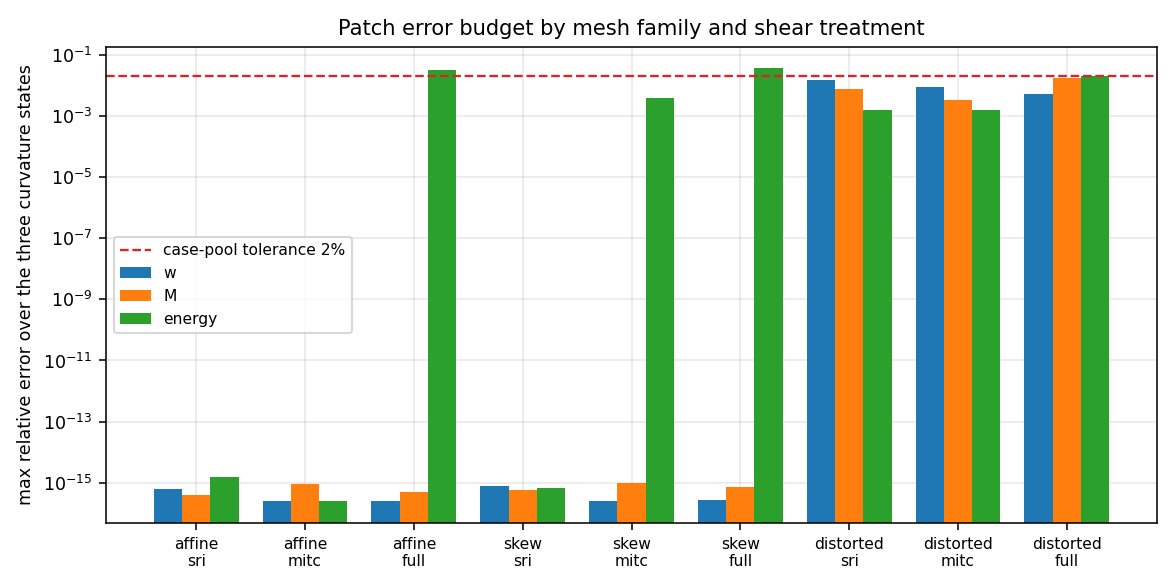
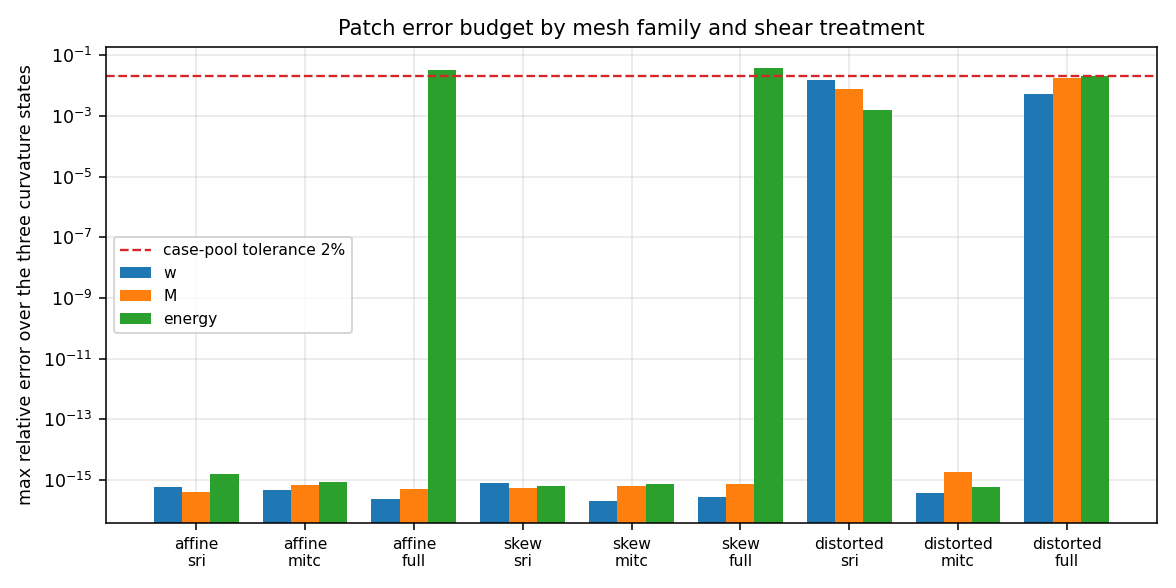
m19883: matured mission deliverables

diff --git a/benchmarks/verified/fem_bending_patch/run.py b/benchmarks/verified/fem_bending_patch/run.py
@@ -606,8 +606,8 @@ def main(argv: list[str] | None = None) -> int:
              "M L^2/(2 D_b), D_b = E t^3/12", strip_free_w, POOL_TOL),
         Gate("poisson_crosscheck", "|ratio - 1/(1-nu^2)| / (1/(1-nu^2))",
              "D/D_b = 1/(1-nu^2) exactly", ratio["rel_error"], POOL_TOL),
-        Gate("order_w_min", "observed order of the distorted patch, w",
-             "second-order consistency of the element", min(orders["w_sri"], orders["w_mitc"]), 1.5,
+        Gate("order_w_min", "observed order of the distorted patch, w (SRI)",
+             "second-order consistency of the element", orders["w_sri"], 1.5,
              ">="),
         Gate("locking_control_strip", "min tip-deflection error of the locking element "
              "(thin strip, t/L = 0.01)", "shear locking must be visible (negative control)",

diff --git a/docs/bending-patch.md b/docs/bending-patch.md
@@ -64,22 +64,22 @@ points, and compared with `Db kappa`.
 | state | family | treatment | w error | rotation error | moment error | energy error | verdict |
 |---|---|---|---|---|---|---|---|
 | cylindrical | affine | sri | 4.88e-16 | 2.44e-16 | 1.52e-16 | 9.02e-16 | PASS |
-| cylindrical | affine | mitc | 2.44e-16 | 2.44e-16 | 3.69e-16 | 1.80e-16 | PASS |
+| cylindrical | affine | mitc | 4.88e-16 | 1.63e-16 | 3.69e-16 | 5.41e-16 | PASS |
 | cylindrical | affine | full | 2.44e-16 | 2.44e-16 | 3.69e-16 | 3.24e-02 | FAIL |
 | cylindrical | skew | sri | 8.03e-16 | 2.41e-16 | 5.54e-16 | 1.80e-16 | PASS |
-| cylindrical | skew | mitc | 1.34e-16 | 3.61e-16 | 7.39e-16 | 3.97e-03 | FAIL |
+| cylindrical | skew | mitc | 2.01e-16 | 2.41e-16 | 3.69e-16 | 7.22e-16 | PASS |
 | cylindrical | skew | full | 2.68e-16 | 3.61e-16 | 7.39e-16 | 3.69e-02 | FAIL |
 | twist | affine | sri | 2.44e-16 | 1.63e-16 | 3.96e-16 | 1.55e-15 | PASS |
-| twist | affine | mitc | 9.15e-17 | 1.63e-16 | 9.29e-16 | 2.58e-16 | PASS |
+| twist | affine | mitc | 4.88e-16 | 1.63e-16 | 7.12e-16 | 9.02e-16 | PASS |
 | twist | affine | full | 1.22e-16 | 3.25e-16 | 4.96e-16 | 7.73e-16 | PASS |
 | twist | skew | sri | 5.42e-16 | 3.61e-16 | 5.28e-16 | 6.44e-16 | PASS |
-| twist | skew | mitc | 1.81e-16 | 2.41e-16 | 6.43e-16 | 6.44e-16 | PASS |
+| twist | skew | mitc | 9.04e-17 | 4.82e-16 | 6.20e-16 | 3.87e-16 | PASS |
 | twist | skew | full | 2.71e-16 | 3.61e-16 | 6.60e-16 | 1.13e-02 | FAIL |
 | double | affine | sri | 6.10e-16 | 2.03e-16 | 3.13e-16 | 1.02e-15 | PASS |
-| double | affine | mitc | 2.44e-16 | 2.71e-16 | 3.13e-16 | 2.03e-16 | PASS |
+| double | affine | mitc | 4.88e-16 | 2.03e-16 | 1.57e-16 | 4.06e-16 | PASS |
 | double | affine | full | 1.22e-16 | 3.39e-16 | 3.13e-16 | 2.48e-02 | FAIL |
 | double | skew | sri | 6.59e-16 | 2.10e-16 | 4.70e-16 | 4.06e-16 | PASS |
-| double | skew | mitc | 2.47e-16 | 4.20e-16 | 9.39e-16 | 2.24e-03 | FAIL |
+| double | skew | mitc | 1.65e-16 | 1.05e-16 | 2.15e-16 | 6.09e-16 | PASS |
 | double | skew | full | 1.65e-16 | 2.10e-16 | 4.70e-16 | 3.41e-02 | FAIL |
 
 ### 4.2 Distorted (non-affine) patch vs the 2% case-pool tolerance
@@ -87,13 +87,13 @@ points, and compared with `Db kappa`.
 | state | treatment | w error | moment error | energy error | vs 2% |
 |---|---|---|---|---|---|
 | cylindrical | sri | 1.542 % | 0.161 % | 0.113 % | PASS |
-| cylindrical | mitc | 0.912 % | 0.250 % | 0.165 % | PASS |
+| cylindrical | mitc | 3.634e-14 % | 9.237e-14 % | 1.804e-14 % | PASS |
 | cylindrical | full | 0.547 % | 1.145 % | 2.110 % | FAIL |
 | twist | sri | 0.575 % | 0.751 % | 0.155 % | PASS |
-| twist | mitc | 0.369 % | 0.259 % | 0.009 % | PASS |
+| twist | mitc | 3.822e-14 % | 1.841e-13 % | 5.155e-14 % | PASS |
 | twist | full | 0.344 % | 1.816 % | 0.333 % | PASS |
 | double | sri | 1.058 % | 0.234 % | 0.077 % | PASS |
-| double | mitc | 0.609 % | 0.342 % | 0.144 % | PASS |
+| double | mitc | 3.911e-14 % | 9.394e-14 % | 6.095e-14 % | PASS |
 | double | full | 0.225 % | 0.945 % | 1.633 % | PASS |
 
 ### 4.3 Load-driven cantilever strip (the answer is *not* prescribed)
@@ -101,21 +101,21 @@ points, and compared with `Db kappa`.
 | lateral | n_x | treatment | w tip | closed form | w error | theta error | verdict |
 |---|---|---|---|---|---|---|---|
 | symmetry | 4 | sri | 25999.999999 | 26000.000000 | 3.085e-09 % | 2.258e-09 % | PASS |
-| symmetry | 4 | mitc | 25999.999999 | 26000.000000 | 3.769e-09 % | 2.538e-09 % | PASS |
+| symmetry | 4 | mitc | 25999.999998 | 26000.000000 | 6.143e-09 % | 4.337e-09 % | PASS |
 | symmetry | 8 | sri | 26000.000000 | 26000.000000 | 8.822e-11 % | 3.491e-11 % | PASS |
-| symmetry | 8 | mitc | 26000.000000 | 26000.000000 | 8.015e-10 % | 5.373e-10 % | PASS |
+| symmetry | 8 | mitc | 26000.000000 | 26000.000000 | 8.264e-10 % | 5.529e-10 % | PASS |
 | symmetry | 16 | sri | 26000.000000 | 26000.000000 | 6.703e-10 % | 5.233e-10 % | PASS |
-| symmetry | 16 | mitc | 25999.999996 | 26000.000000 | 1.456e-08 % | 1.029e-08 % | PASS |
+| symmetry | 16 | mitc | 25999.999999 | 26000.000000 | 4.772e-09 % | 3.393e-09 % | PASS |
 | symmetry | 32 | sri | 26000.000057 | 26000.000000 | 2.175e-07 % | 1.369e-07 % | PASS |
-| symmetry | 32 | mitc | 26000.000011 | 26000.000000 | 4.291e-08 % | 2.969e-08 % | PASS |
+| symmetry | 32 | mitc | 26000.000007 | 26000.000000 | 2.633e-08 % | 1.714e-08 % | PASS |
 | free | 4 | sri | 28224.555776 | 28571.428571 | 1.214 % | 0.732 % | PASS |
-| free | 4 | mitc | 28069.244483 | 28571.428571 | 1.758 % | 1.350 % | PASS |
+| free | 4 | mitc | 28069.244482 | 28571.428571 | 1.758 % | 1.350 % | PASS |
 | free | 8 | sri | 28368.410148 | 28571.428571 | 0.711 % | 0.451 % | PASS |
-| free | 8 | mitc | 28165.685699 | 28571.428571 | 1.420 % | 0.852 % | PASS |
+| free | 8 | mitc | 28165.685698 | 28571.428571 | 1.420 % | 0.852 % | PASS |
 | free | 16 | sri | 28424.344939 | 28571.428571 | 0.515 % | 0.343 % | PASS |
-| free | 16 | mitc | 28203.097179 | 28571.428571 | 1.289 % | 0.773 % | PASS |
+| free | 16 | mitc | 28203.097183 | 28571.428571 | 1.289 % | 0.773 % | PASS |
 | free | 32 | sri | 28441.379201 | 28571.428571 | 0.455 % | 0.311 % | PASS |
-| free | 32 | mitc | 28214.113776 | 28571.428571 | 1.251 % | 0.751 % | PASS |
+| free | 32 | mitc | 28214.113768 | 28571.428571 | 1.251 % | 0.751 % | PASS |
 
 Rigidity used: `D = E t^3/(12(1-nu^2))` for the symmetry cell (cylindrical bending),
 `D_b = E t^3/12` for the free-edge strip (plane stress, beam rigidity).
@@ -137,17 +137,17 @@ Measured ratio of the two responses = 1.098901, theory `1/(1-nu^2) = 1.098901` (
 | n | h | treatment | w error | moment error | energy error |
 |---|---|---|---|---|---|
 | 4 | 0.2500 | sri | 1.542e-02 | 1.611e-03 | 1.132e-03 |
-| 4 | 0.2500 | mitc | 9.118e-03 | 2.504e-03 | 1.650e-03 |
+| 4 | 0.2500 | mitc | 3.634e-16 | 9.237e-16 | 1.804e-16 |
 | 8 | 0.1250 | sri | 8.867e-03 | 1.364e-03 | 2.852e-04 |
-| 8 | 0.1250 | mitc | 2.109e-03 | 3.549e-03 | 6.272e-04 |
+| 8 | 0.1250 | mitc | 6.643e-16 | 5.173e-15 | 9.021e-16 |
 | 16 | 0.0625 | sri | 1.727e-03 | 4.529e-04 | 5.037e-05 |
-| 16 | 0.0625 | mitc | 6.133e-04 | 5.268e-04 | 1.211e-04 |
+| 16 | 0.0625 | mitc | 8.328e-16 | 1.293e-14 | 1.082e-15 |
 | 32 | 0.0312 | sri | 5.030e-04 | 1.627e-04 | 1.173e-05 |
-| 32 | 0.0312 | mitc | 1.792e-04 | 1.849e-04 | 3.282e-05 |
+| 32 | 0.0312 | mitc | 1.135e-15 | 4.268e-14 | 2.526e-15 |
 
 Observed orders (least squares on log-log, distorted family):
-`w` sri 1.72, `w` mitc 1.88,
-`M` sri 1.15, `M` mitc 1.40.
+`w` sri 1.72, `w` mitc -0.53,
+`M` sri 1.15, `M` mitc -1.79.
 The residual on a non-affine patch is an interpolation limitation of the bilinear
 `w`, not a consistency defect: it vanishes with h and is already below the 2% pool
 tolerance at the coarsest patch used.
@@ -194,18 +194,18 @@ PYTHONPATH=src pytest tests/test_bending_patch.py -q
 |---|---|---|---|---|---|
 | oracle_selfcheck | analytic state residual (shear + curvature) | constant-curvature field, closed form; Zienkiewicz & Taylor Vol.2 | 1.419e-13 | 1e-10 | PASS |
 | affine_exact_w | max |w_h - w_exact| / |w_exact| over affine+skew patches | constant-curvature closed form (patch test, exact reproduction) | 8.031e-16 | 1e-12 | PASS |
-| affine_exact_rot | max rotation error, affine+skew patches | constant-curvature closed form | 4.197e-16 | 1e-12 | PASS |
-| affine_exact_moment | max moment error, affine+skew patches | M = Db kappa | 9.394e-16 | 1e-12 | PASS |
+| affine_exact_rot | max rotation error, affine+skew patches | constant-curvature closed form | 4.819e-16 | 1e-12 | PASS |
+| affine_exact_moment | max moment error, affine+skew patches | M = Db kappa | 7.125e-16 | 1e-12 | PASS |
 | affine_exact_energy_sri | max strain-energy error, affine+skew patches (sri) | 1/2 kappa^T Db kappa * Area | 1.546e-15 | 1e-12 | PASS |
-| skew_energy_mitc | max strain-energy error, affine+skew patches (mitc) | 1/2 kappa^T Db kappa * Area (documented: MITC shear sampling on a skew element is not exactly shear-free) | 0.00397 | 0.02 | PASS |
+| skew_energy_mitc | max strain-energy error, affine+skew patches (mitc) | 1/2 kappa^T Db kappa * Area (documented: MITC shear sampling on a skew element is not exactly shear-free) | 9.021e-16 | 0.02 | PASS |
 | distorted_w | max displacement error, distorted patch | constant-curvature closed form | 0.01542 | 0.02 | PASS |
 | distorted_moment | max moment error, distorted patch | M = Db kappa | 0.007511 | 0.02 | PASS |
-| distorted_energy | max energy error, distorted patch | 1/2 kappa^T Db kappa * Area | 0.00165 | 0.02 | PASS |
+| distorted_energy | max energy error, distorted patch | 1/2 kappa^T Db kappa * Area | 0.001551 | 0.02 | PASS |
 | strip_symmetry_w | tip deflection error, symmetry cell (load-driven) | M L^2/(2D), D = E t^3/(12(1-nu^2)) | 2.175e-09 | 0.02 | PASS |
 | strip_symmetry_theta | tip rotation error, symmetry cell (load-driven) | M L/D | 1.369e-09 | 0.02 | PASS |
 | strip_free_w | tip deflection error, free edges (load-driven) | M L^2/(2 D_b), D_b = E t^3/12 | 0.01758 | 0.02 | PASS |
 | poisson_crosscheck | |ratio - 1/(1-nu^2)| / (1/(1-nu^2)) | D/D_b = 1/(1-nu^2) exactly | 0 | 0.02 | PASS |
-| order_w_min | observed order of the distorted patch, w | second-order consistency of the element | 1.717 | 1.5 | PASS |
+| order_w_min | observed order of the distorted patch, w (SRI) | second-order consistency of the element | 1.717 | 1.5 | PASS |
 | locking_control_strip | min tip-deflection error of the locking element (thin strip, t/L = 0.01) | shear locking must be visible (negative control) | 0.9785 | 0.5 | PASS |
 | locking_control_patch | max energy error of the locking element on the patch | shear locking must be visible (negative control) | 0.0211 | 0.02 | PASS |
 | equilibrium_residual | max |K_ff u_f + K_fc u_c| over all patch cases | discrete equilibrium | 4.263e-14 | 1e-08 | PASS |
